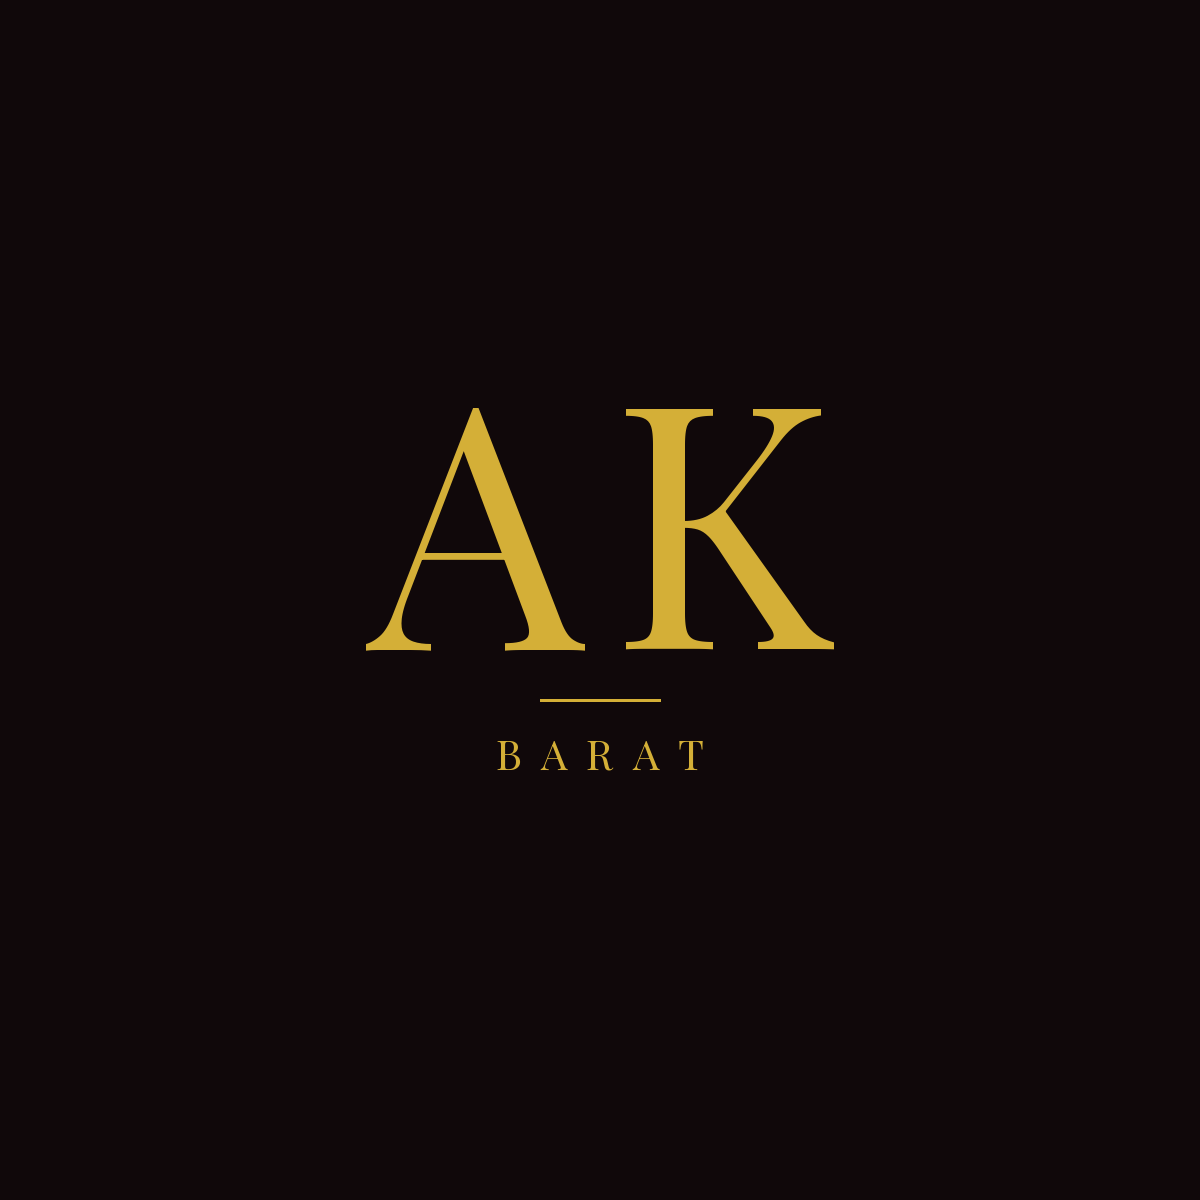
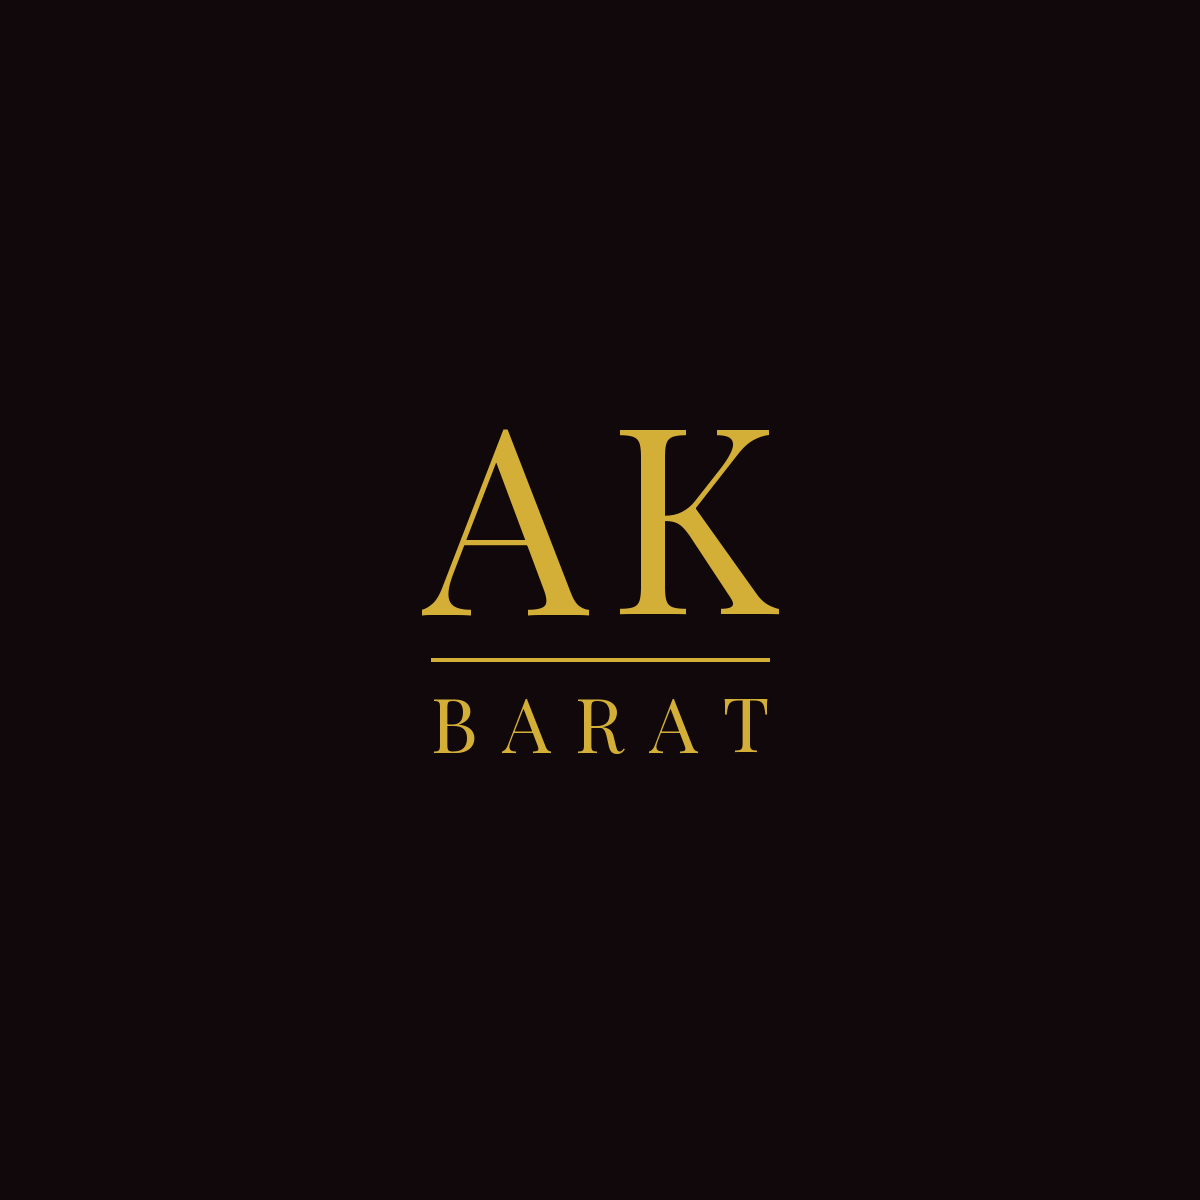
Scale OG preview rule and event title to match AK (#48)

Changed region(s): [[0.3083, 0.3392, 0.7092, 0.555], [0.3392, 0.5858, 0.5858, 0.6475], [0.6167, 0.5858, 0.6475, 0.6167]]

diff --git a/index.html b/index.html
@@ -11,8 +11,8 @@
     <meta property="og:title" content="BARAT · Adeel & Khadija">
     <meta property="og:description" content="You are invited to the Barat of Khadija Imran Butt and Adeel Kamal Ahmad. November 10, 2026 · Lahore.">
     <meta property="og:url" content="https://adeelkhadijabarat.com/">
-    <meta property="og:image" content="https://adeelkhadijabarat.com/assets/og-image.png">
-    <meta property="og:image:secure_url" content="https://adeelkhadijabarat.com/assets/og-image.png">
+    <meta property="og:image" content="https://adeelkhadijabarat.com/assets/og-image.png?v=2">
+    <meta property="og:image:secure_url" content="https://adeelkhadijabarat.com/assets/og-image.png?v=2">
     <meta property="og:image:type" content="image/png">
     <meta property="og:image:width" content="1200">
     <meta property="og:image:height" content="1200">
@@ -20,8 +20,8 @@
     <meta name="twitter:card" content="summary_large_image">
     <meta name="twitter:title" content="BARAT · Adeel & Khadija">
     <meta name="twitter:description" content="You are invited to the Barat of Khadija Imran Butt and Adeel Kamal Ahmad. November 10, 2026 · Lahore.">
-    <meta name="twitter:image" content="https://adeelkhadijabarat.com/assets/og-image.png">
-    <link rel="image_src" href="https://adeelkhadijabarat.com/assets/og-image.png">
+    <meta name="twitter:image" content="https://adeelkhadijabarat.com/assets/og-image.png?v=2">
+    <link rel="image_src" href="https://adeelkhadijabarat.com/assets/og-image.png?v=2">
     <link rel="icon" href="favicon.ico?v=6" sizes="any">
     <link rel="icon" type="image/svg+xml" href="assets/favicon.svg?v=6">
     <link rel="icon" type="image/png" sizes="32x32" href="assets/favicon.png?v=6">
